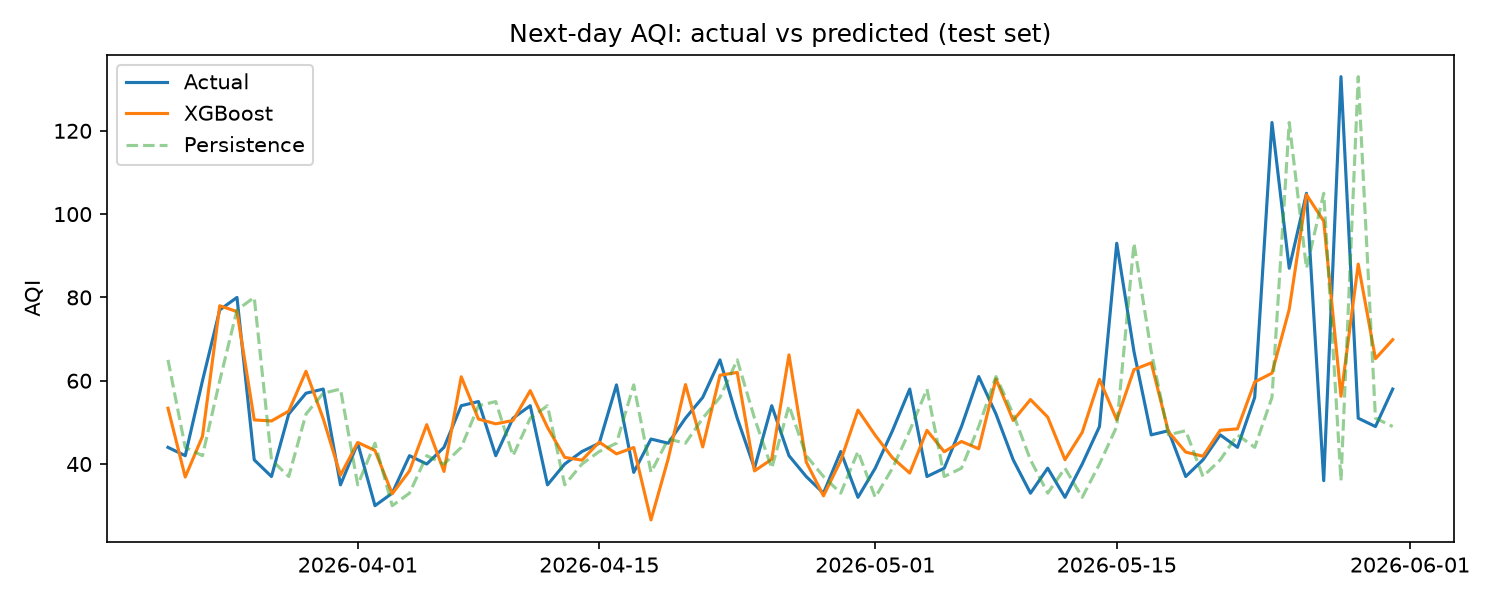
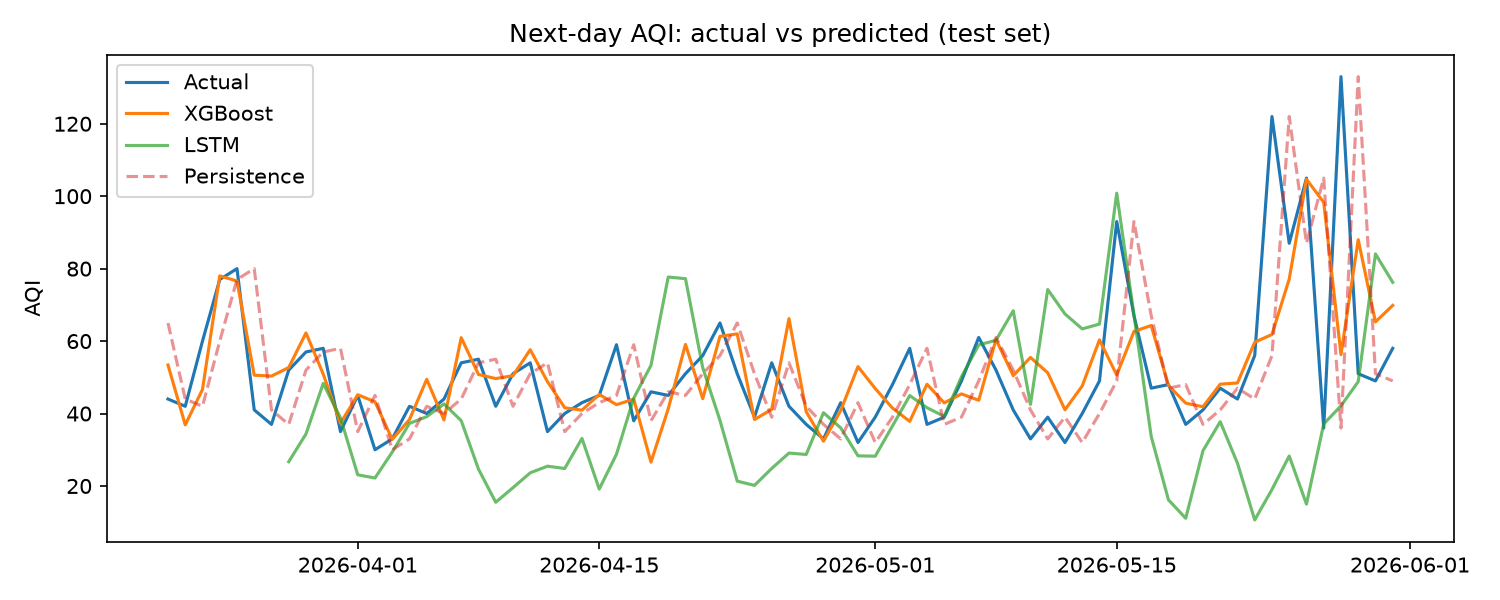
added LSTM to predicted-vs-actual plot, decouple torch from xgboost process

diff --git a/src/explain.py b/src/explain.py
@@ -13,12 +13,17 @@ from train_baseline import (
 )
 
 FIG_DIR = BASE_DIR / "results/figures"
+SEQ_LEN = 7
 
 
 def main():
     FIG_DIR.mkdir(parents=True, exist_ok=True)
     train, test = load_split_data()
     model, preds = train_xgboost(train, test)
+
+    # LSTM predictions saved by train_lstm.py (covers test days after the first 7)
+    lstm_preds = np.load(BASE_DIR / "results/lstm_preds.npy")
+    lstm_dates = test["date"].iloc[SEQ_LEN:]
 
     # SHAP feature importance
     explainer = shap.TreeExplainer(model)
@@ -39,6 +44,7 @@ def main():
     plt.figure(figsize=(10, 4))
     plt.plot(test["date"], test[TARGET_COL], label="Actual")
     plt.plot(test["date"], preds, label="XGBoost")
+    plt.plot(lstm_dates, lstm_preds, label="LSTM", alpha=0.7)
     plt.plot(test["date"], test["AQI"], label="Persistence", linestyle="--", alpha=0.5)
     plt.ylabel("AQI")
     plt.legend()

diff --git a/src/train_lstm.py b/src/train_lstm.py
@@ -13,7 +13,6 @@ import torch.nn as nn
 from sklearn.preprocessing import StandardScaler
 from sklearn.metrics import mean_absolute_error, mean_squared_error
 
-
 BASE_DIR = Path(__file__).resolve().parent.parent
 FEATURES_PATH = BASE_DIR / "data/processed/features.csv"
 
@@ -55,6 +54,7 @@ class LSTMModel(nn.Module):
         return self.fc(out).squeeze(-1)
 
 def train_lstm():
+    torch.manual_seed(42)
     df = load_data()
     split_idx = int(len(df) * 0.8)
 
@@ -105,6 +105,7 @@ def train_lstm():
     rmse = np.sqrt(mean_squared_error(y_test_actual, test_preds))
     print(f"LSTM                 MAE: {mae:.2f}  RMSE: {rmse:.2f}")
 
+    np.save(BASE_DIR / "results/lstm_preds.npy", test_preds)
     return model, test_preds, y_test_actual
 
 if __name__ == "__main__":
